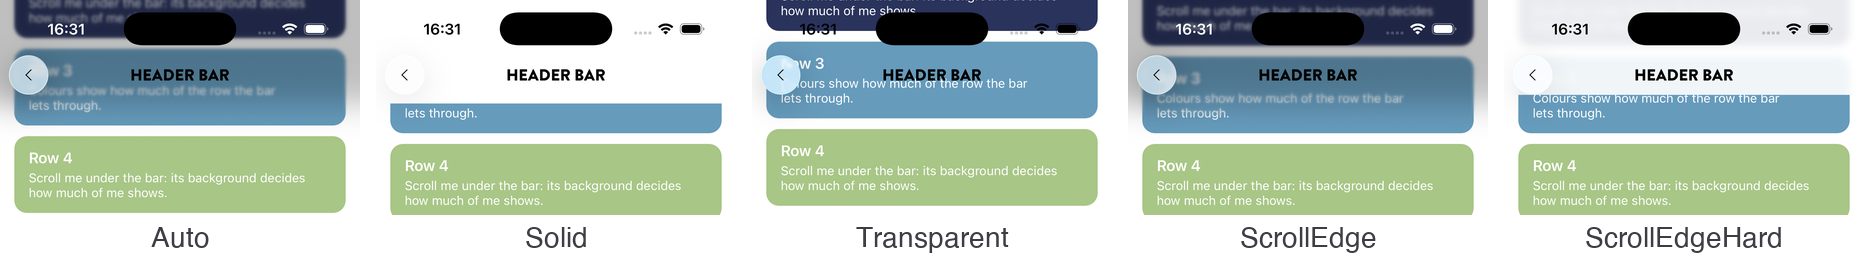
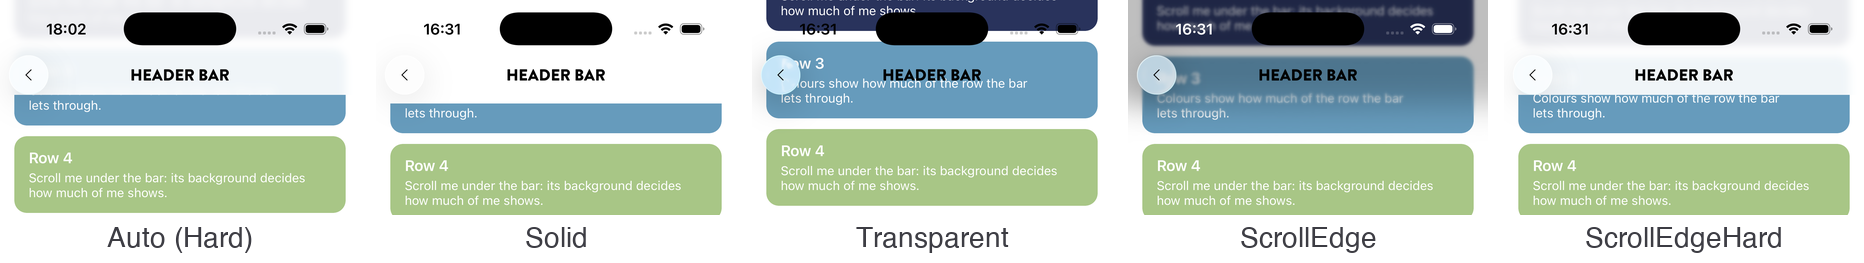
Header bar: Auto is the hard scroll edge on iOS 26, as a native navigation bar

Changed region(s): [[0.0, 0.0, 0.2178, 0.4259], [0.0622, 0.8517, 0.1556, 0.943]]

diff --git a/samples/MauiSpineSampleApp/Pages/HeaderBar/HeaderBarPage.ViewModel.cs b/samples/MauiSpineSampleApp/Pages/HeaderBar/HeaderBarPage.ViewModel.cs
@@ -35,11 +35,11 @@ public partial class HeaderBarPageViewModel : ViewModelBase
 
         _background = new("Background",
         [
-            new("Auto", "What the platform's own bar does: the scroll edge effect on iOS 26 when a list fills the page, Transparent under Overlay, Solid otherwise. The default; pick another value only to get a look on purpose.", () => HeaderBarBackground = HeaderBarBackground.Auto),
+            new("Auto", "What the platform's own bar does: the hard scroll edge on iOS 26 when a list fills the page, as in native apps, Transparent under Overlay, Solid otherwise. The default; pick another value only to get a look on purpose.", () => HeaderBarBackground = HeaderBarBackground.Auto),
             new("Solid", "The page's colour: content under the bar is hidden. A classic bar, or a photo that gives way to a plain bar once it scrolls.", () => HeaderBarBackground = HeaderBarBackground.Solid),
             new("Transparent", "Nothing: content shows through the bar, and the title floats over it. A photo or a map under an Overlay bar.", () => HeaderBarBackground = HeaderBarBackground.Transparent),
-            new("ScrollEdge", "Content fades and blurs into the bar: the iOS 26 soft scroll edge, a fading band on Android and Windows. Lists, as in iOS 26 system apps.", () => HeaderBarBackground = HeaderBarBackground.ScrollEdge),
-            new("Hard", "ScrollEdgeHard: a frosted, nearly opaque band with a clear bottom edge. A bar that holds more than a title: search, filters, several buttons.", () => HeaderBarBackground = HeaderBarBackground.ScrollEdgeHard),
+            new("ScrollEdge", "Content fades and blurs into the bar: the iOS 26 soft scroll edge, a fading band on Android and Windows. A lighter look than the native bar's.", () => HeaderBarBackground = HeaderBarBackground.ScrollEdge),
+            new("Hard", "ScrollEdgeHard: a frosted, nearly opaque band with a clear bottom edge, as behind a native iOS 26 navigation bar. What Auto gives on iOS 26; ask for it to get it on Android and Windows too.", () => HeaderBarBackground = HeaderBarBackground.ScrollEdgeHard),
         ]);
 
         _foreground = new("Foreground",

diff --git a/src/Plugin.Maui.Spine/Core/HeaderBarMode.cs b/src/Plugin.Maui.Spine/Core/HeaderBarMode.cs
@@ -32,7 +32,7 @@ public enum HeaderBarBackground
 {
     /// <summary>
     /// What the platform's own bar does. On iOS and Mac Catalyst 26 that is
-    /// <see cref="ScrollEdge"/>, for a region or tab page whose scroll view fills it from the top
+    /// <see cref="ScrollEdgeHard"/>, the style a navigation bar shows, for a region or tab page whose scroll view fills it from the top
     /// (a page with fixed content above its list gets <see cref="Solid"/>, so that content never
     /// sits under the bar). Everywhere else it is <see cref="Solid"/>. Under
     /// <see cref="HeaderBarMode.Overlay"/> it is <see cref="Transparent"/>: the page draws its own top.
@@ -56,7 +56,7 @@ public enum HeaderBarBackground
     /// <summary>
     /// Content under the bar stays half visible and fades and blurs into it: the iOS 26 scroll edge
     /// effect with its soft style, drawn by UIKit over the status bar and the whole bar, as behind a
-    /// navigation bar. Android and Windows show a band in the page's colour, slightly see-through
+    /// navigation bar, but softer than its default. Android and Windows show a band in the page's colour, slightly see-through
     /// behind the bar and fading out below it. iOS and Mac Catalyst before 26, and Reduce
     /// Transparency, give <see cref="Solid"/>.
     /// </summary>
@@ -64,7 +64,8 @@ public enum HeaderBarBackground
 
     /// <summary>
     /// <see cref="ScrollEdge"/> with the hard style: a frosted, nearly opaque band that ends in a
-    /// clear edge, for a bar with more in it than a title. Android and Windows show the page's
+    /// clear edge: what a navigation bar shows on iOS 26, and what <see cref="Auto"/> gives there.
+    /// Android and Windows show the page's
     /// colour, nearly opaque, down to the bar's bottom edge, with a hairline there.
     /// </summary>
     ScrollEdgeHard,

diff --git a/src/Plugin.Maui.Spine/Services/NavigableMeta.cs b/src/Plugin.Maui.Spine/Services/NavigableMeta.cs
@@ -98,7 +98,7 @@ internal static class NavigableMeta
 
         if (background == HeaderBarBackground.Auto)
         {
-            // Automatic only where the system draws the effect, and only for a page whose scroll
+            // The hard style, as behind a navigation bar. Only where the system draws the effect, and only for a page whose scroll
             // view fills it from the top: anything above the list that does not scroll would
             // otherwise sit under the bar for good.
             background = vm.HeaderBarMode == HeaderBarMode.Overlay
@@ -108,7 +108,7 @@ internal static class NavigableMeta
                     && vm.IsHeaderBarVisible
                     && (HeaderBar.GetScrollSource(view) ?? FindFirstScrollable(view)) is { } source
                     && FillsFromTop(view, source)
-                        ? HeaderBarBackground.ScrollEdge
+                        ? HeaderBarBackground.ScrollEdgeHard
                         : HeaderBarBackground.Solid;
         }
 

diff --git a/.claude/skills/spine-page/SKILL.md b/.claude/skills/spine-page/SKILL.md
@@ -71,7 +71,7 @@ Naming: `XxxPage` / `XxxPageViewModel` / `XxxPage.View.xaml`; a subfolder gets i
 | `[NavigableSheet(Title = …, AllowedDetents = […])]` | Bottom sheet over the current page, with its own stack | `NavigateToAsync<TPage>()` — the attribute decides |
 | `[NavigableTab(Title = …, Icon = "tab_home.svg", Order = 0)]` | A region that roots a bottom tab in the native tab bar | `NavigateToAsync<TPage>()` switches to the tab; `SwitchToTabAsync<TPage>()` says so explicitly |
 
-Useful attribute properties, all optional: `Lifetime` (`Transient` default; `Singleton` keeps state — tabs default to `Singleton`), `IsHeaderBarVisible`, `IsBackButtonVisible`, `TitleAlignment`, `SafeAreaEdges` (exclude an edge to draw behind it, then offset with `ViewModelBase.SafeAreaInsets`), `ScrollInset` (edges on which the page's first `ScrollView`/`CollectionView` takes that inset as a native content inset, so a list can scroll under a bar and still reach its last row; the same thing per view is `SafeArea.ScrollInset="Bottom"`). The header bar has three independent settings, each on the attribute, as an app-wide default in `options.RegionDefaults`/`TabDefaults`/`SheetDefaults`, and settable on the view model while the page is shown (Spine re-resolves and re-lays out): **layout** `HeaderBar` (`Normal`: content starts below the bar; `Overlay`: content starts at the top of the screen behind the bar, and the page keeps clear what it wants with `SafeAreaInsets.Top` / `SafeArea.ScrollInset="Top"` — Spine adds no top inset there), **`LargeTitle`** and **background** `HeaderBarBackground`, which only shows when content is under the bar: `Auto` (default; the platform's bar — `ScrollEdge` on iOS 26 for a region/tab page whose `ScrollView`/`CollectionView` fills it from the top, `Transparent` under `Overlay`, `Solid` otherwise), `Solid` (the page's colour hides content under the bar; under `Normal` the bar has its own row), `Transparent` (content shows through, the title floats over it — for a photo or map under `Overlay`), `ScrollEdge` (iOS 26 soft scroll edge effect; a fading band on Android/Windows; `Solid` before iOS 26) and `ScrollEdgeHard` (frosted, nearly opaque band for a bar with search/filters/several buttons; Android/Windows: nearly opaque with a hairline). Reduce Transparency turns the scroll edge values into `Solid`; `ViewModelBase.EffectiveHeaderBarBackground` tells what the page got. Under `Normal`, a large title, `Transparent` or a scroll edge value lays the page out under the bar and Spine adds `Top` to the scroll source's `SafeArea.ScrollInset`, so the first row starts below the bar. For a page on a photo or hero: `HeaderBar = HeaderBarMode.Overlay`, `HeaderBarBackground = Transparent` (or `Solid` to close the bar once the list scrolls), `HeaderBarForeground = "#FFFFFF"` (title and icons in a fixed colour; it stays fixed on a solid bar) and `StatusBarStyle = StatusBarStyle.LightContent` (iOS needs `UIViewControllerBasedStatusBarAppearance` false in Info.plist). For an iOS-style large title: `LargeTitle = true`, put `<HeaderBarLargeTitle />` first in the page's `ScrollView`/`CollectionView` (e.g. `CollectionView.Header`) — it shows the page title in the platform's large-title size and is what Spine measures (custom titles: `HeaderBarConstants.LargeTitle…` plus `HeaderBar.CollapseDistance`; the whole bar's height is `HeaderBarConstants.BarHeight`, 54 on iOS 26 with the 44-point `Height` item row at its top); Spine fades the bar's title in as the label scrolls under the bar and publishes `ViewModelBase.HeaderBarCollapseProgress`. `HeaderBar.ScrollSource="{x:Reference List}"` on the page picks the scroll view (default: the first). The sample's Header bar page combines every setting live.
+Useful attribute properties, all optional: `Lifetime` (`Transient` default; `Singleton` keeps state — tabs default to `Singleton`), `IsHeaderBarVisible`, `IsBackButtonVisible`, `TitleAlignment`, `SafeAreaEdges` (exclude an edge to draw behind it, then offset with `ViewModelBase.SafeAreaInsets`), `ScrollInset` (edges on which the page's first `ScrollView`/`CollectionView` takes that inset as a native content inset, so a list can scroll under a bar and still reach its last row; the same thing per view is `SafeArea.ScrollInset="Bottom"`). The header bar has three independent settings, each on the attribute, as an app-wide default in `options.RegionDefaults`/`TabDefaults`/`SheetDefaults`, and settable on the view model while the page is shown (Spine re-resolves and re-lays out): **layout** `HeaderBar` (`Normal`: content starts below the bar; `Overlay`: content starts at the top of the screen behind the bar, and the page keeps clear what it wants with `SafeAreaInsets.Top` / `SafeArea.ScrollInset="Top"` — Spine adds no top inset there), **`LargeTitle`** and **background** `HeaderBarBackground`, which only shows when content is under the bar: `Auto` (default; the platform's bar — `ScrollEdgeHard`, as native, on iOS 26 for a region/tab page whose `ScrollView`/`CollectionView` fills it from the top, `Transparent` under `Overlay`, `Solid` otherwise), `Solid` (the page's colour hides content under the bar; under `Normal` the bar has its own row), `Transparent` (content shows through, the title floats over it — for a photo or map under `Overlay`), `ScrollEdge` (iOS 26 soft scroll edge effect, lighter than native; a fading band on Android/Windows; `Solid` before iOS 26) and `ScrollEdgeHard` (the native iOS 26 frosted, nearly opaque band; Android/Windows: nearly opaque with a hairline). Reduce Transparency turns the scroll edge values into `Solid`; `ViewModelBase.EffectiveHeaderBarBackground` tells what the page got. Under `Normal`, a large title, `Transparent` or a scroll edge value lays the page out under the bar and Spine adds `Top` to the scroll source's `SafeArea.ScrollInset`, so the first row starts below the bar. For a page on a photo or hero: `HeaderBar = HeaderBarMode.Overlay`, `HeaderBarBackground = Transparent` (or `Solid` to close the bar once the list scrolls), `HeaderBarForeground = "#FFFFFF"` (title and icons in a fixed colour; it stays fixed on a solid bar) and `StatusBarStyle = StatusBarStyle.LightContent` (iOS needs `UIViewControllerBasedStatusBarAppearance` false in Info.plist). For an iOS-style large title: `LargeTitle = true`, put `<HeaderBarLargeTitle />` first in the page's `ScrollView`/`CollectionView` (e.g. `CollectionView.Header`) — it shows the page title in the platform's large-title size and is what Spine measures (custom titles: `HeaderBarConstants.LargeTitle…` plus `HeaderBar.CollapseDistance`; the whole bar's height is `HeaderBarConstants.BarHeight`, 54 on iOS 26 with the 44-point `Height` item row at its top); Spine fades the bar's title in as the label scrolls under the bar and publishes `ViewModelBase.HeaderBarCollapseProgress`. `HeaderBar.ScrollSource="{x:Reference List}"` on the page picks the scroll view (default: the first). The sample's Header bar page combines every setting live.
 
 Sheets: `AllowedDetents = [SheetDetent.Compact | Medium | Expanded | FullScreen, "75%", "300px"]`, `InitialDetent`, `BackgroundPageOverlay = None | Dimmed | Blurred`. Override `OnCloseRequestedAsync` to guard dismissal; `OnDismissedAsync` runs when the user closes it without a result.
 

diff --git a/docs/wiki/regions.md b/docs/wiki/regions.md
@@ -178,11 +178,11 @@ The background only shows when content is under the bar: content that has scroll
 
 | Value | iOS / Mac Catalyst 26 | iOS / Mac Catalyst before 26 | Android | Windows | Pick it for |
 |---|---|---|---|---|---|
-| `Auto` (default) | `ScrollEdge` on a region or tab page whose list fills it from the top; `Solid` otherwise | `Solid` | `Solid` | `Solid` | Almost every page: the platform's own bar |
+| `Auto` (default) | `ScrollEdgeHard`, as a native navigation bar, on a region or tab page whose list fills it from the top; `Solid` otherwise | `Solid` | `Solid` | `Solid` | Almost every page: the platform's own bar |
 | `Solid` | The page's colour; content under the bar is hidden | Same | Same | Same | A classic bar; a photo page whose bar closes once the list scrolls |
 | `Transparent` | Nothing; content shows through, the title floats over it | Same | Same | Same | A photo or a map under an `Overlay` bar |
-| `ScrollEdge` | UIKit's scroll edge effect, soft style: content fades and blurs into the bar | `Solid` | The page's colour, slightly see-through behind the bar, fading out below it | As Android | Lists, as in iOS 26 system apps, when you want it on every platform |
-| `ScrollEdgeHard` | The hard style: a frosted, nearly opaque band with a clear edge | `Solid` | The page's colour, nearly opaque, with a hairline at the bar's bottom edge | As Android | A bar with more in it than a title: search, filters, several buttons |
+| `ScrollEdge` | UIKit's scroll edge effect, soft style: content fades and blurs into the bar | `Solid` | The page's colour, slightly see-through behind the bar, fading out below it | As Android | A lighter bar than the native one, where content should stay visible |
+| `ScrollEdgeHard` | The hard style: a frosted, nearly opaque band with a clear edge, as behind a native navigation bar | `Solid` | The page's colour, nearly opaque, with a hairline at the bar's bottom edge | As Android | The native iOS 26 look on every platform |
 
 Under `Overlay`, `Auto` is `Transparent`, since the page draws its own top. With Reduce Transparency on (iOS/Mac), or transparency effects off (Windows), both scroll edge values are `Solid`. `ViewModelBase.EffectiveHeaderBarBackground` says what the page got: what `Auto` resolved to, and `Solid` where a scroll edge value could not be drawn.
 
@@ -199,8 +199,8 @@ Under `Overlay`, `Auto` is `Transparent`, since the page draws its own top. With
 
 - **`Solid` under `Normal`** gives the bar a row of its own; the content starts and stays below it. Under `Overlay` or a large title, where content starts under the bar, the colour fades in over the first `HeaderBarConstants.ScrollEdgeFadeLength` points of scroll. The colour is the page's own background when it has an opaque one, otherwise what the platform paints behind pages (the system background on iOS, the window background on Android).
 - **`Transparent` and the scroll edge values under `Normal`** lay the page out under the bar, and Spine adds `Top` to the scroll source's `SafeArea.ScrollInset`, so the first row starts below the bar at rest and scrolls under it.
-- **`ScrollEdge` is always the soft style.** UIKit's automatic style looked the same as the hard one on an iOS 26.5 iPhone, so Spine never leaves the choice to the system.
-- **Before `Auto` on iOS 26 picks `ScrollEdge`,** the page's scroll view (`HeaderBar.ScrollSource`, or else the first `ScrollView` / `CollectionView`) must fill the page from the top: every container between the page and the list holds only the list, or is a grid in which the list spans all rows (a list with a floating button). A page with fixed content above its list keeps `Solid`, so nothing that does not scroll ends up under the bar. Sheets keep `Solid`.
+- **`Auto` is the hard style on iOS 26**, which is what a native navigation bar shows on an iPhone (iOS 26.5). **`ScrollEdge` is always the soft style**: Spine never leaves the choice to UIKit's automatic style, which resolved differently between iOS versions.
+- **Before `Auto` on iOS 26 picks `ScrollEdgeHard`,** the page's scroll view (`HeaderBar.ScrollSource`, or else the first `ScrollView` / `CollectionView`) must fill the page from the top: every container between the page and the list holds only the list, or is a grid in which the list spans all rows (a list with a floating button). A page with fixed content above its list keeps `Solid`, so nothing that does not scroll ends up under the bar. Sheets keep `Solid`.
 
 ### Overlay header
 
@@ -244,7 +244,7 @@ The iOS large title and the Material 3 medium top app bar: the page opens on its
 `HeaderBarLargeTitle` shows the page's title (set `Text` to show something else) in the platform's large-title size, weight, row height and margin, in the header's `HeaderBarForeground` when the page fixes one and in the app's label style otherwise. Spine measures it to decide when the bar's title fades in, wherever it sits in the scroll content. For a title of your own, the numbers are public on `HeaderBarConstants` (`LargeTitleFontSize`, `LargeTitleFontAttributes`, `LargeTitleHeight`, `LargeTitleMargin`); set `HeaderBar.CollapseDistance` on the page to where its text has gone.
 
 - A large title always has content scrolling under the bar, so the page is laid out under it. Under `Normal`, Spine adds `Top` to the scroll source's `SafeArea.ScrollInset`, so the large title starts right under the bar without the page doing anything.
-- The background is whatever `HeaderBarBackground` says: with `Auto` that is the scroll edge effect on iOS 26 and a bar that turns from transparent to the page's colour elsewhere.
+- The background is whatever `HeaderBarBackground` says: with `Auto` that is the hard scroll edge on iOS 26 and a bar that turns from transparent to the page's colour elsewhere.
 - `Overlay` and `LargeTitle` combine: a hero with a greeting in it, `HeaderBar.CollapseDistance` set to where the greeting has gone, and `HeaderBarBackground = Solid` so the bar closes over the photo once the list passes under it.
 - `HeaderBar.ScrollSource` (on the page) names the `ScrollView` or `CollectionView` to follow. Without it Spine follows the page's first one, and waits for it when the page builds it later (a state view that swaps in its body). On iOS Spine reads the native scroll offset, because MAUI's `CollectionView` stops raising `Scrolled` while only its header is on screen.
 - The bar's title fades in over the last `HeaderBarConstants.LargeTitleFadeLength` points before the collapse distance: `HeaderBar.CollapseDistance` when the page sets it, otherwise the offset at which the `HeaderBarLargeTitle`'s text has gone under the bar (its top in the scroll content plus half its row and half its font size), otherwise `HeaderBarConstants.LargeTitleCollapseDistance`.

diff --git a/issues/385-auto-hard-scroll-edge.md b/issues/385-auto-hard-scroll-edge.md
@@ -1,0 +1,29 @@
+# Issue #385 — Header bar: Auto should be the hard scroll edge on iOS 26, as native
+
+**GitHub:** https://github.com/jonatansoderberg/Maui.Spine/issues/385
+**Branch:** issue/385-auto-hard-scroll-edge
+**Status:** Completed
+**Related:** #379 (PR #382)
+
+## Plan
+
+Jonatan, on an iPhone (iOS 26.5): the native navigation bar's default scroll edge effect is the hard style, so `Auto` should resolve to `ScrollEdgeHard` on iOS 26, not to the soft `ScrollEdge`.
+
+## Changes
+
+- `NavigableMeta.ResolveBackground`: on iOS and Mac Catalyst 26, `Auto` resolves to `ScrollEdgeHard` for a region or tab page whose list fills it from the top. The other branches are unchanged: `Transparent` under Overlay, `Solid` otherwise, and `Solid` on Android, Windows and before iOS 26.
+- `HeaderBarBackground` docs: `Auto` names `ScrollEdgeHard` as the native style. `ScrollEdge` is described as softer than a navigation bar's default.
+- Sample Header bar page: the explanations of Auto, ScrollEdge and Hard.
+- `regions.md`:
+  - The Backgrounds table (Auto, ScrollEdge and ScrollEdgeHard rows and their "pick it for" column).
+  - The note on styles, and the Large title text.
+  - The iOS screenshot strips, light and dark, now labelled "Auto (Hard)".
+- The `/spine-page` skill.
+
+## Verified
+
+- iPhone 17 simulator (iOS 26.4), light and dark: the page shows "Auto is ScrollEdgeHard on this page". Scrolled, the Auto bar has the frosted band of the hard style; under the inline title it ends with the items, as `ScrollEdgeHard` did in #379.
+
+## Decisions
+
+- **Hard, not UIKit's automatic style.** Automatic resolved to soft on the 26.4 simulator and looked hard on the 26.5 phone. Pinning hard gives what the native bar shows on the phone, on every 26.x. An explicit `ScrollEdge` stays soft, for an app that wants the lighter look.
